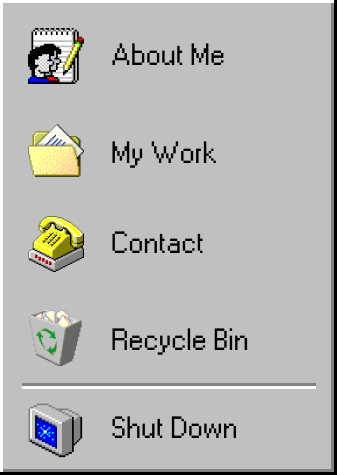
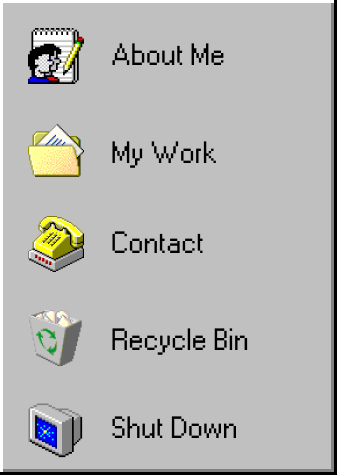
start menu layout

Changed region(s): [[0.0593, 0.7958, 0.9496, 0.8253]]

diff --git a/src/components/windows/StartMenu.tsx b/src/components/windows/StartMenu.tsx
@@ -5,7 +5,8 @@ import Contact from "../../assets/images/buttons/contactStart.jpg";
 import Recycle from "../../assets/images/buttons/recycleStart.jpg";
 import ShutDown from "../../assets/images/buttons/shutDown.jpg";
 import Work from "../../assets/images/buttons/workStart.jpg";
-import { StartContainer } from "../../assets/style/StartMenu.style";
+import Dash from "../../assets/images/other/startDash.jpg";
+import { StartContainer, StartDash } from "../../assets/style/StartMenu.style";
 import { useGlobalContext } from "../../context";
 
 const StartMenu: React.FC = () => {
@@ -17,6 +18,7 @@ const StartMenu: React.FC = () => {
       <img src={Work} alt="Work" />
       <img src={Contact} alt="Contact" />
       <img src={Recycle} alt="Recycle" />
+      <StartDash src={Dash} alt="StartDash" />
       <img src={ShutDown} alt="ShutDown" />
     </StartContainer>
   );

diff --git a/src/assets/style/StartMenu.style.tsx b/src/assets/style/StartMenu.style.tsx
@@ -8,14 +8,31 @@ type StartContainerPosition = {
 
 export const StartContainer = styled.section<StartContainerPosition>`
   background: url(${start}) center/contain no-repeat;
-  height: 350px;
-  width: 250px;
+  /* background: #c0c0c0; */
+  height: 475px;
+  width: 337px;
   transform: ${({ position }) =>
-    position ? `translateY(-34px)` : `translateY(500px)`};
+    position ? `translateY(-170px)` : `translateY(500px)`};
   transition: transform 500ms ease;
+  position: relative;
 
   img {
-    width: 249px;
+    height: 91px;
+    width: 337px;
     cursor: pointer;
+    /* position: absolute;
+    left: 0;
+    margin-left: 0.1rem; */
+
+    &:first-of-type {
+      height: 104px;
+    }
   }
+`;
+
+export const StartDash = styled.img`
+  height: 6px !important;
+  width: 294px !important;
+  display: block;
+  margin: 0 auto;
 `;

diff --git a/dist/index.html b/dist/index.html
@@ -4,7 +4,7 @@
     <meta charset="UTF-8" />
     <meta name="viewport" content="width=device-width, initial-scale=1.0" />
     <title>Aleksa Bubanja Portfolio</title>
-    <script type="module" crossorigin src="/Portfolio/assets/index-6ca13377.js"></script>
+    <script type="module" crossorigin src="/Portfolio/assets/index-caab4cfc.js"></script>
   </head>
   <body>
     <div id="root"></div>
